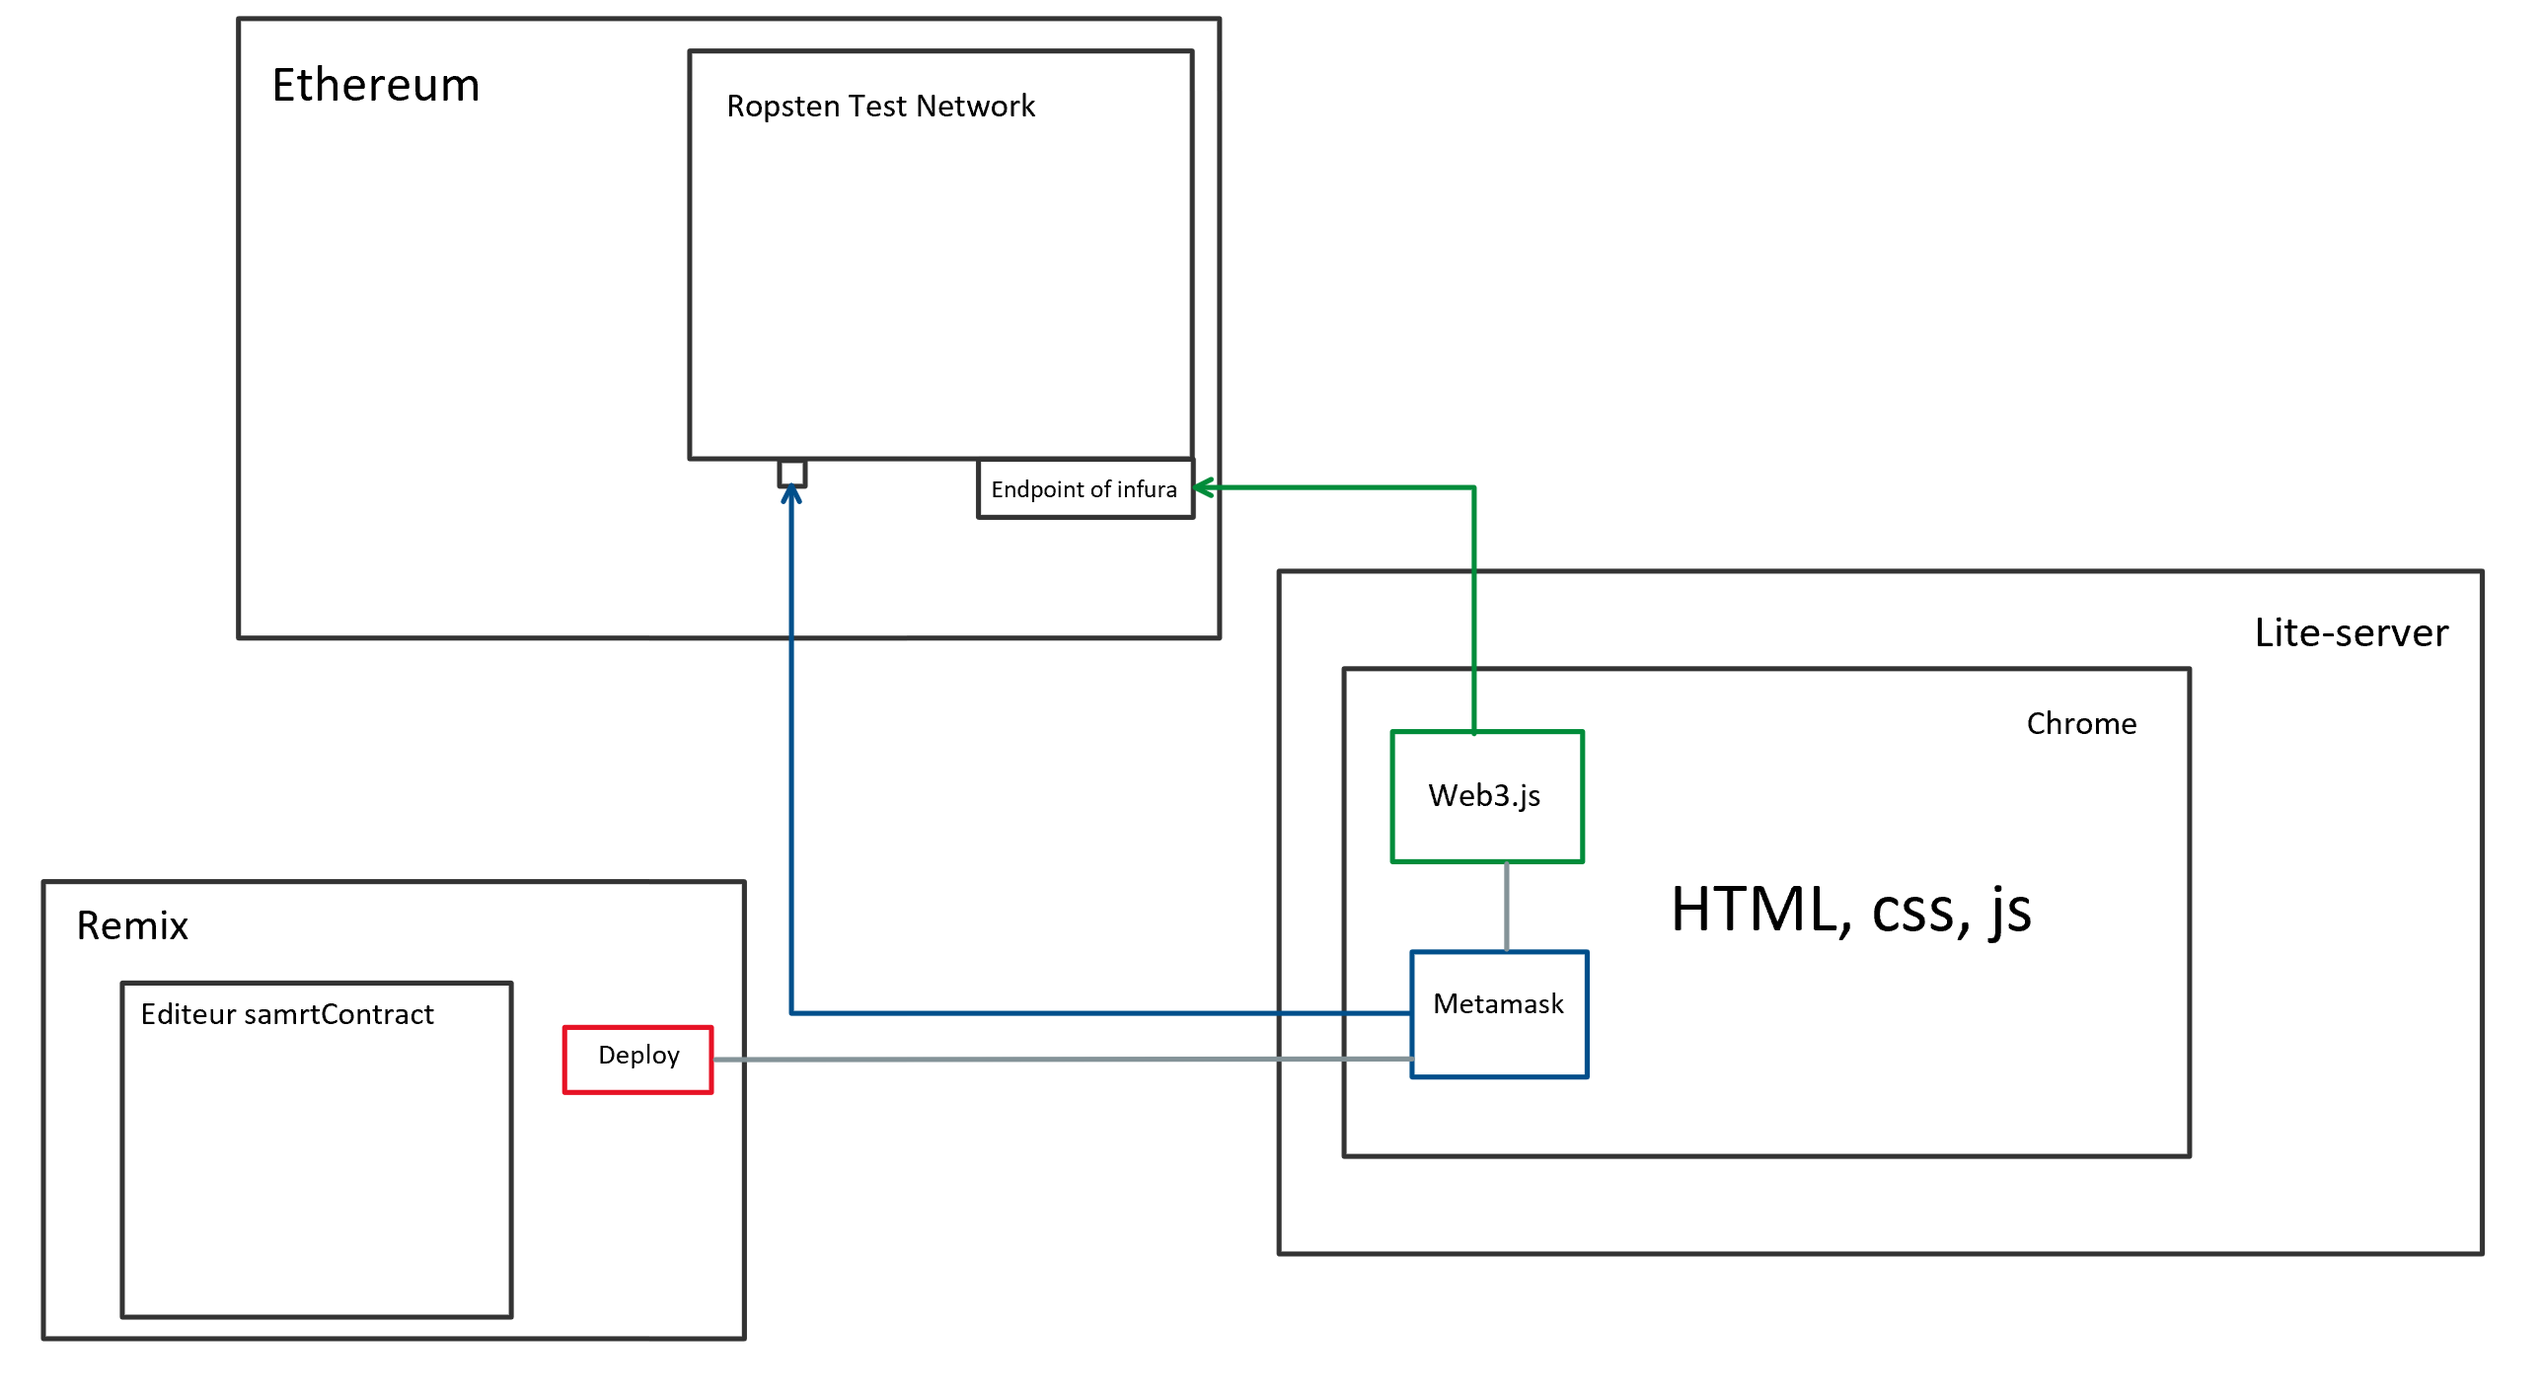
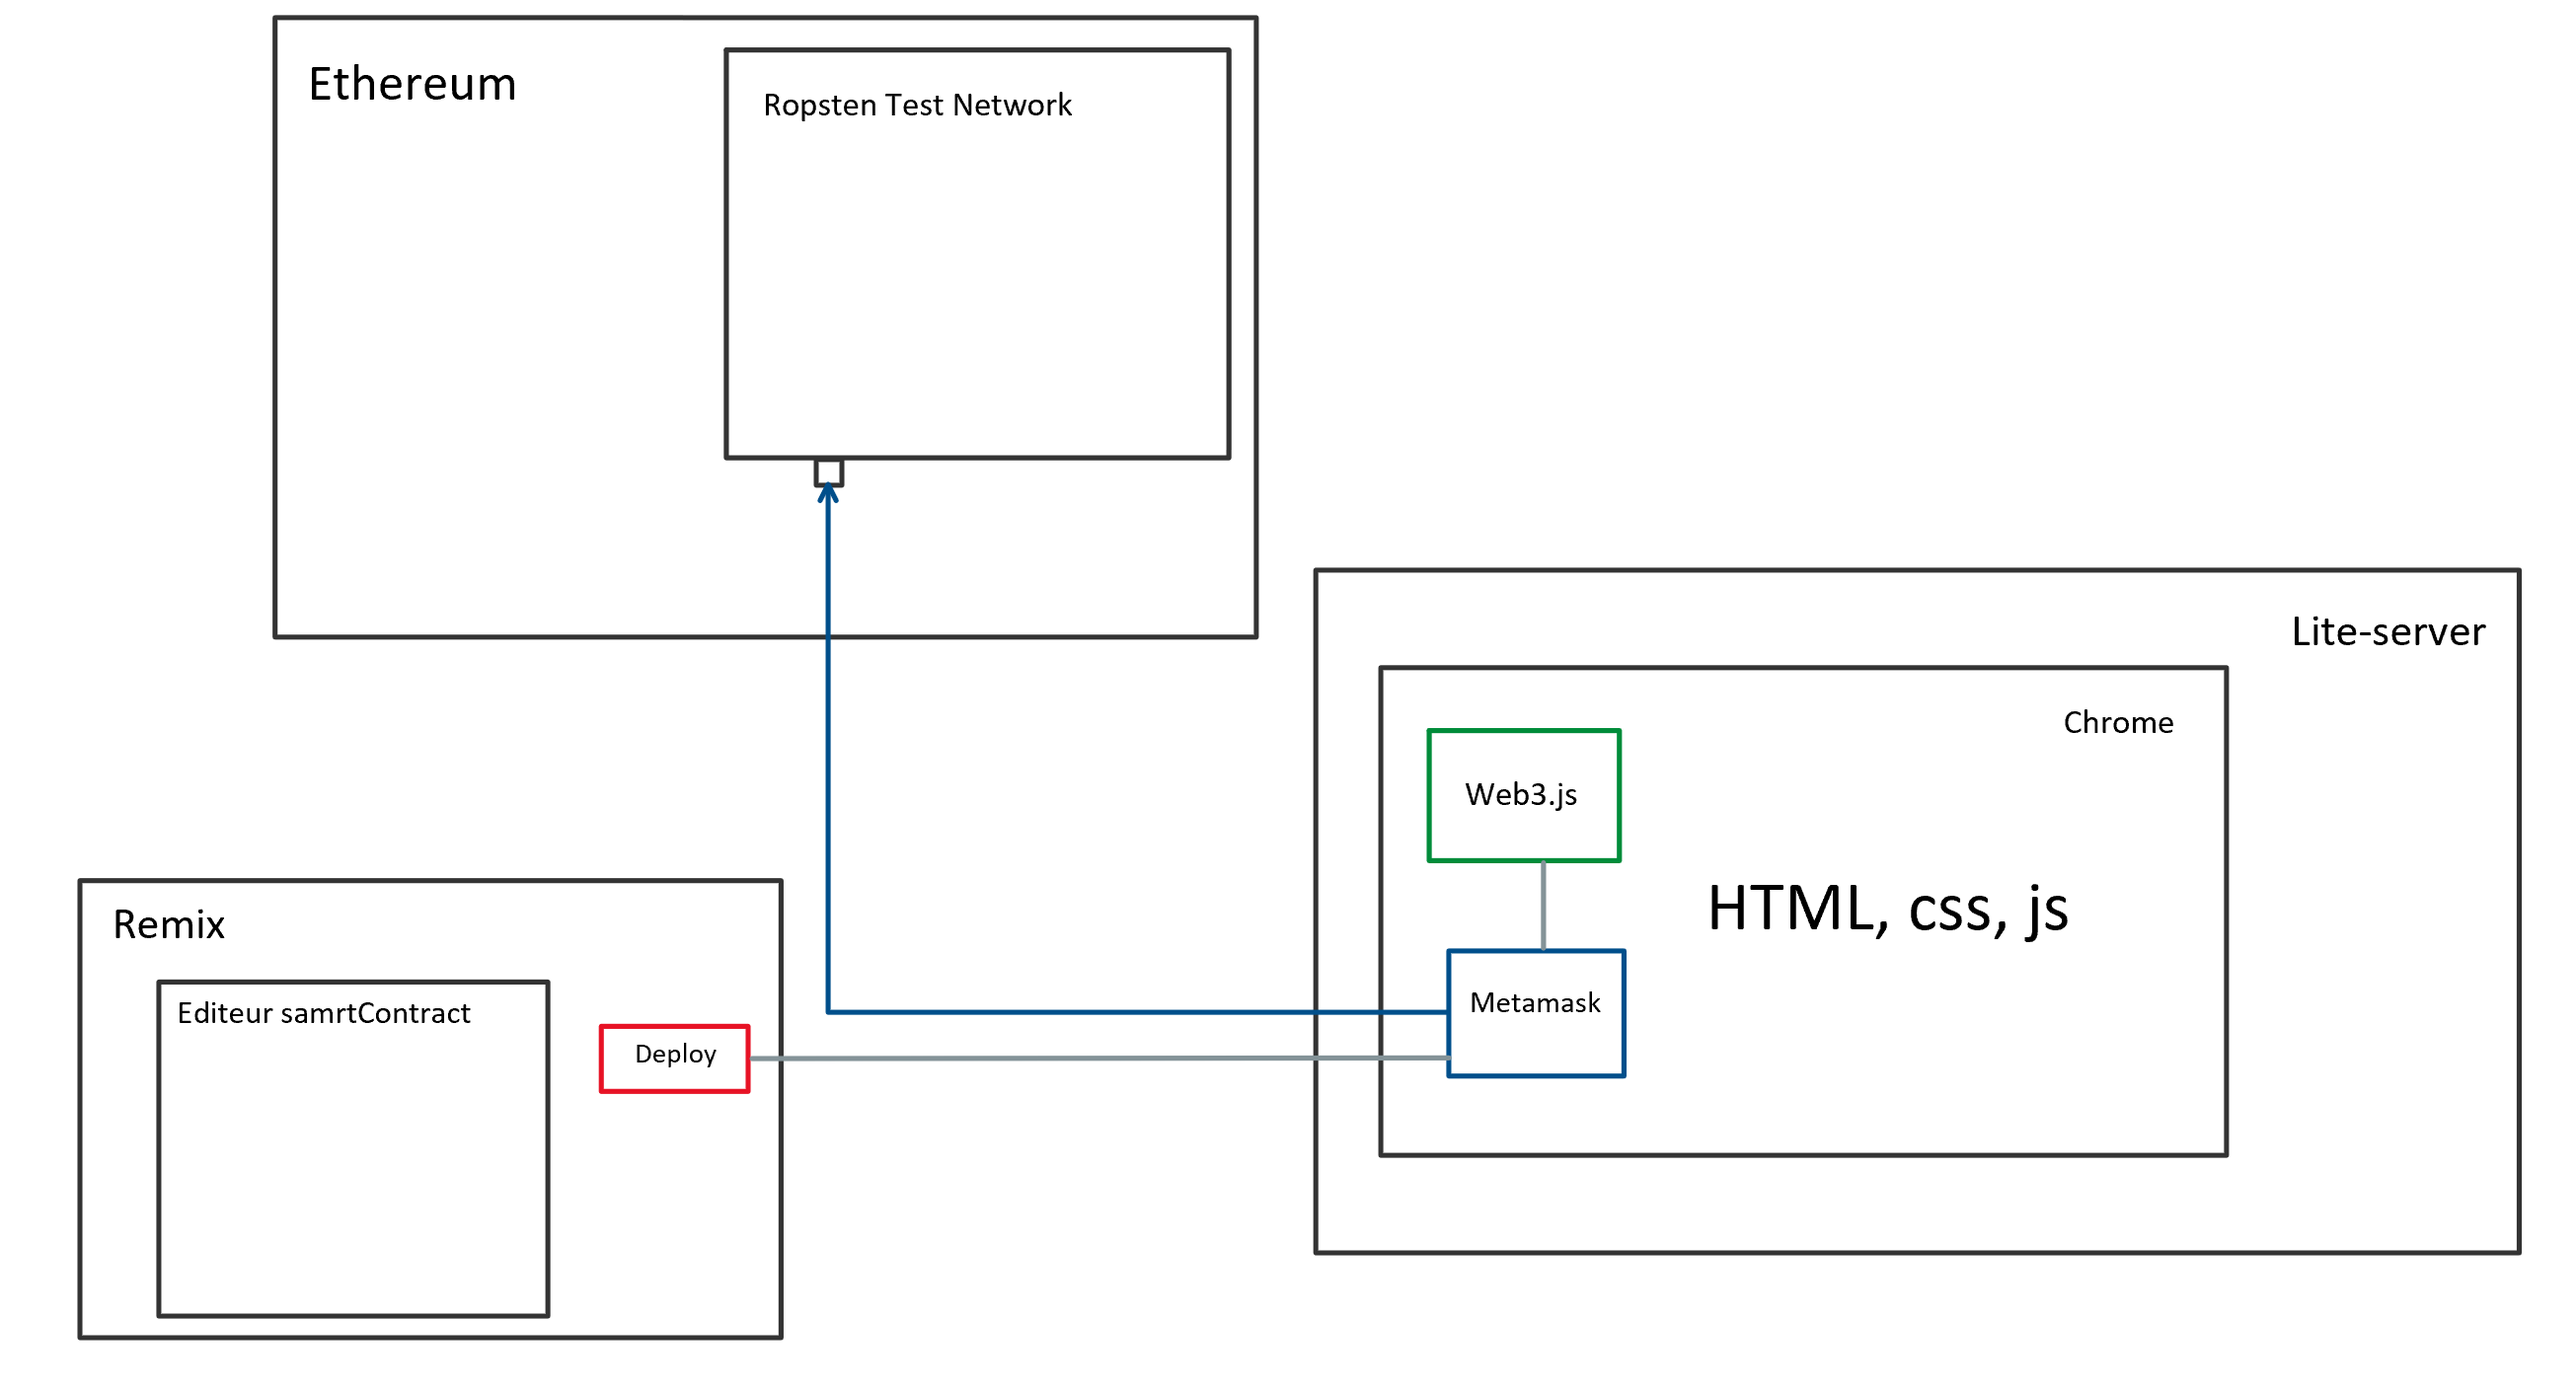
Delete technique infura; Update image;

Changed region(s): [[0.0, 0.0, 0.9942, 0.9681], [0.6524, 0.6246, 0.8078, 0.687], [0.2485, 0.0312, 0.435, 0.0937]]

diff --git a/src/index.1_web3_smartContracts.js b/src/index.1_web3_smartContracts.js
@@ -1,11 +1,11 @@
 // web3 provider
 if (typeof web3 !== 'undefined') {
+    console.log("Existing instance of web3");
     web3 = new Web3(web3.currentProvider);
-    // eth = new Eth(web3.currentProvider);
 } else {
     // set the provider you want from Web3.providers
-    web3 = new Web3(new Web3.providers.HttpProvider("https://ropsten.infura.io/v3/76ba8681b14b4f1bac44c41e5e0e843a"));
-    // eth = new Eth(web3.currentProvider);
+    console.log("set your providers for web3");
+    // web3 = new Web3(new Web3.providers.HttpProvider("https://ropsten.infura.io/v3/76ba8681b14b4f1bac44c41e5e0e843a"));
 }
 
 web3.eth.defaultAccount = web3.eth.accounts[0];
@@ -920,8 +920,8 @@ var tokenManager = web3.eth.contract(tokenManagerContrat_abi).at(tokenManagerCon
 // console.log
 // console.log("user accounts:")
 // console.log(web3.eth.accounts);
-// console.log("user default account:")
-// console.log(web3.eth.defaultAccount);
+console.log("user default account:")
+console.log(web3.eth.defaultAccount);
 
 // console.log("contract_userManager:");
 // console.log(userManager);

diff --git a/README.md b/README.md
@@ -24,7 +24,6 @@ GitHub https://github.com/JieanYang/Projet_Blockchain_TokenisationFilm
 - MetaMask - plugin chrome https://chrome.google.com/webstore/detail/metamask/nkbihfbeogaeaoehlefnkodbefgpgknn
   Top up Ethereum to enter account in MetaMask https://faucet.metamask.io/
 - Remix http://remix.ethereum.org/
-- infura https://infura.io/
 
 #### Architecture of application:
 ![Img_architectureApplication](https://raw.githubusercontent.com/JieanYang/Projet_Blockchain_TokenisationFilm/master/ArchitectureConception/ArchitectureApplication.png)
